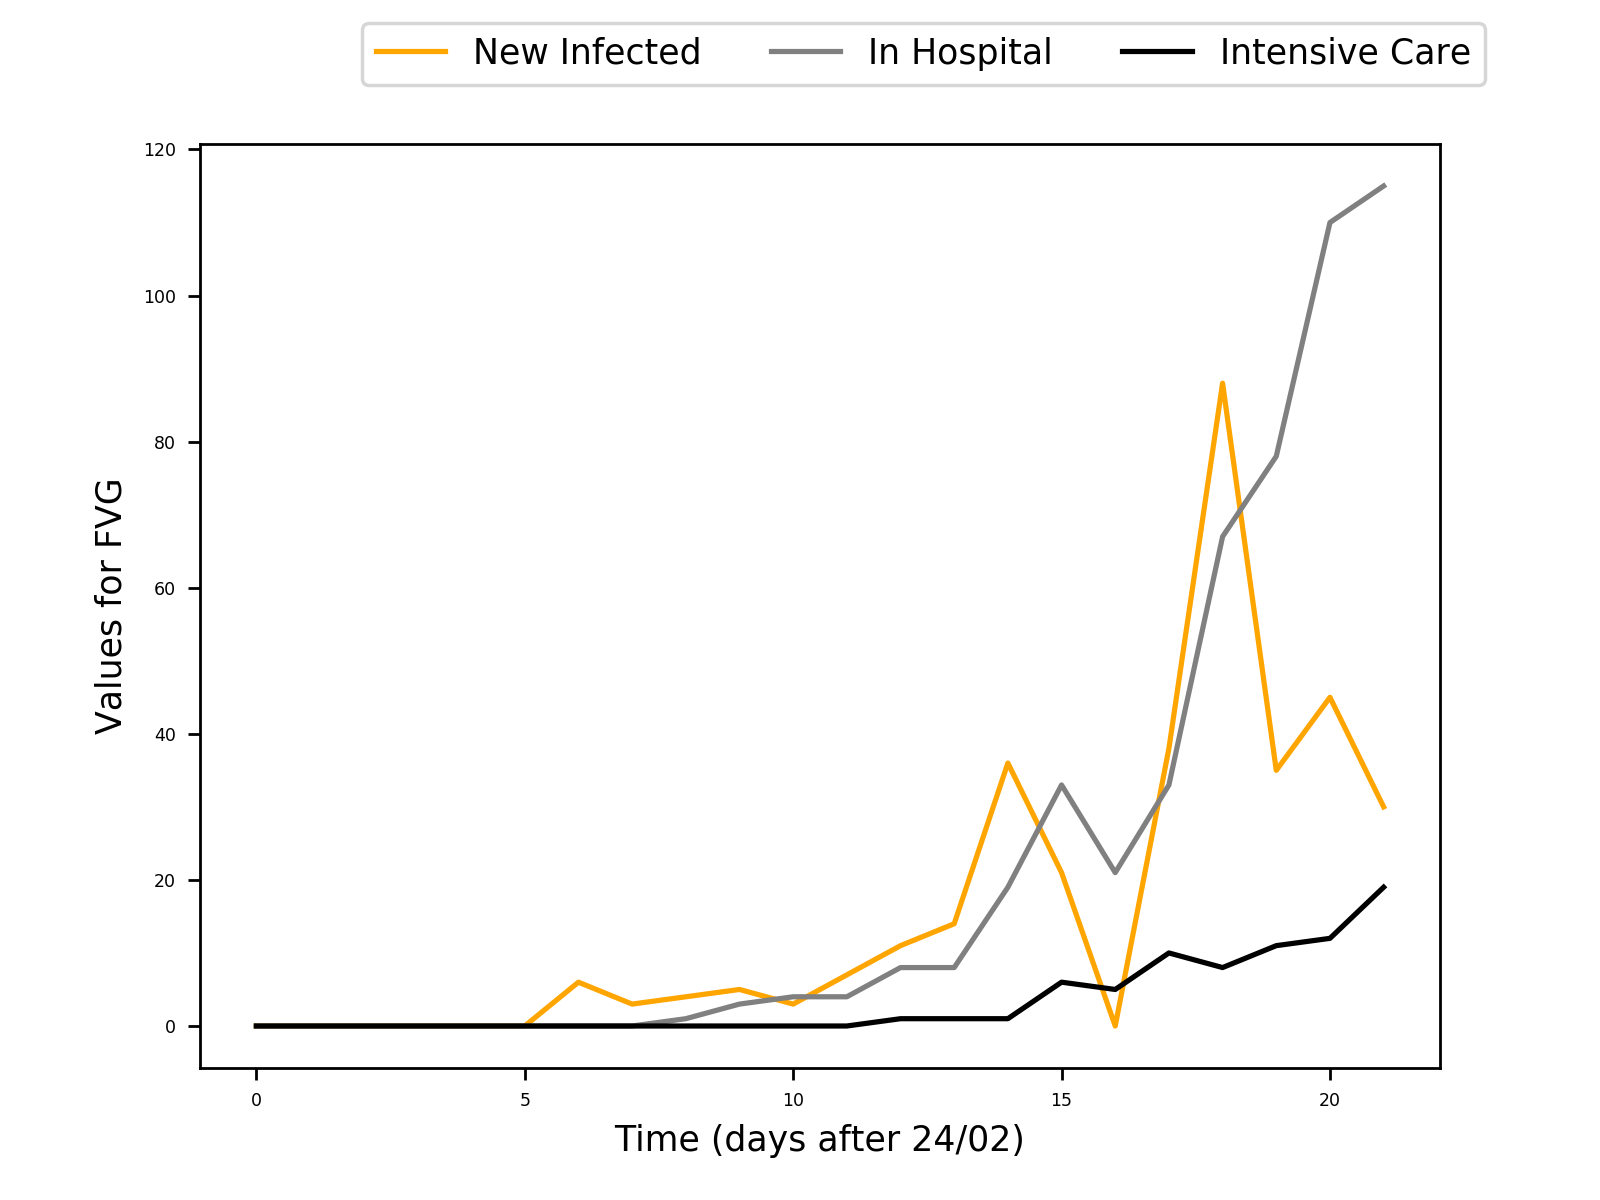
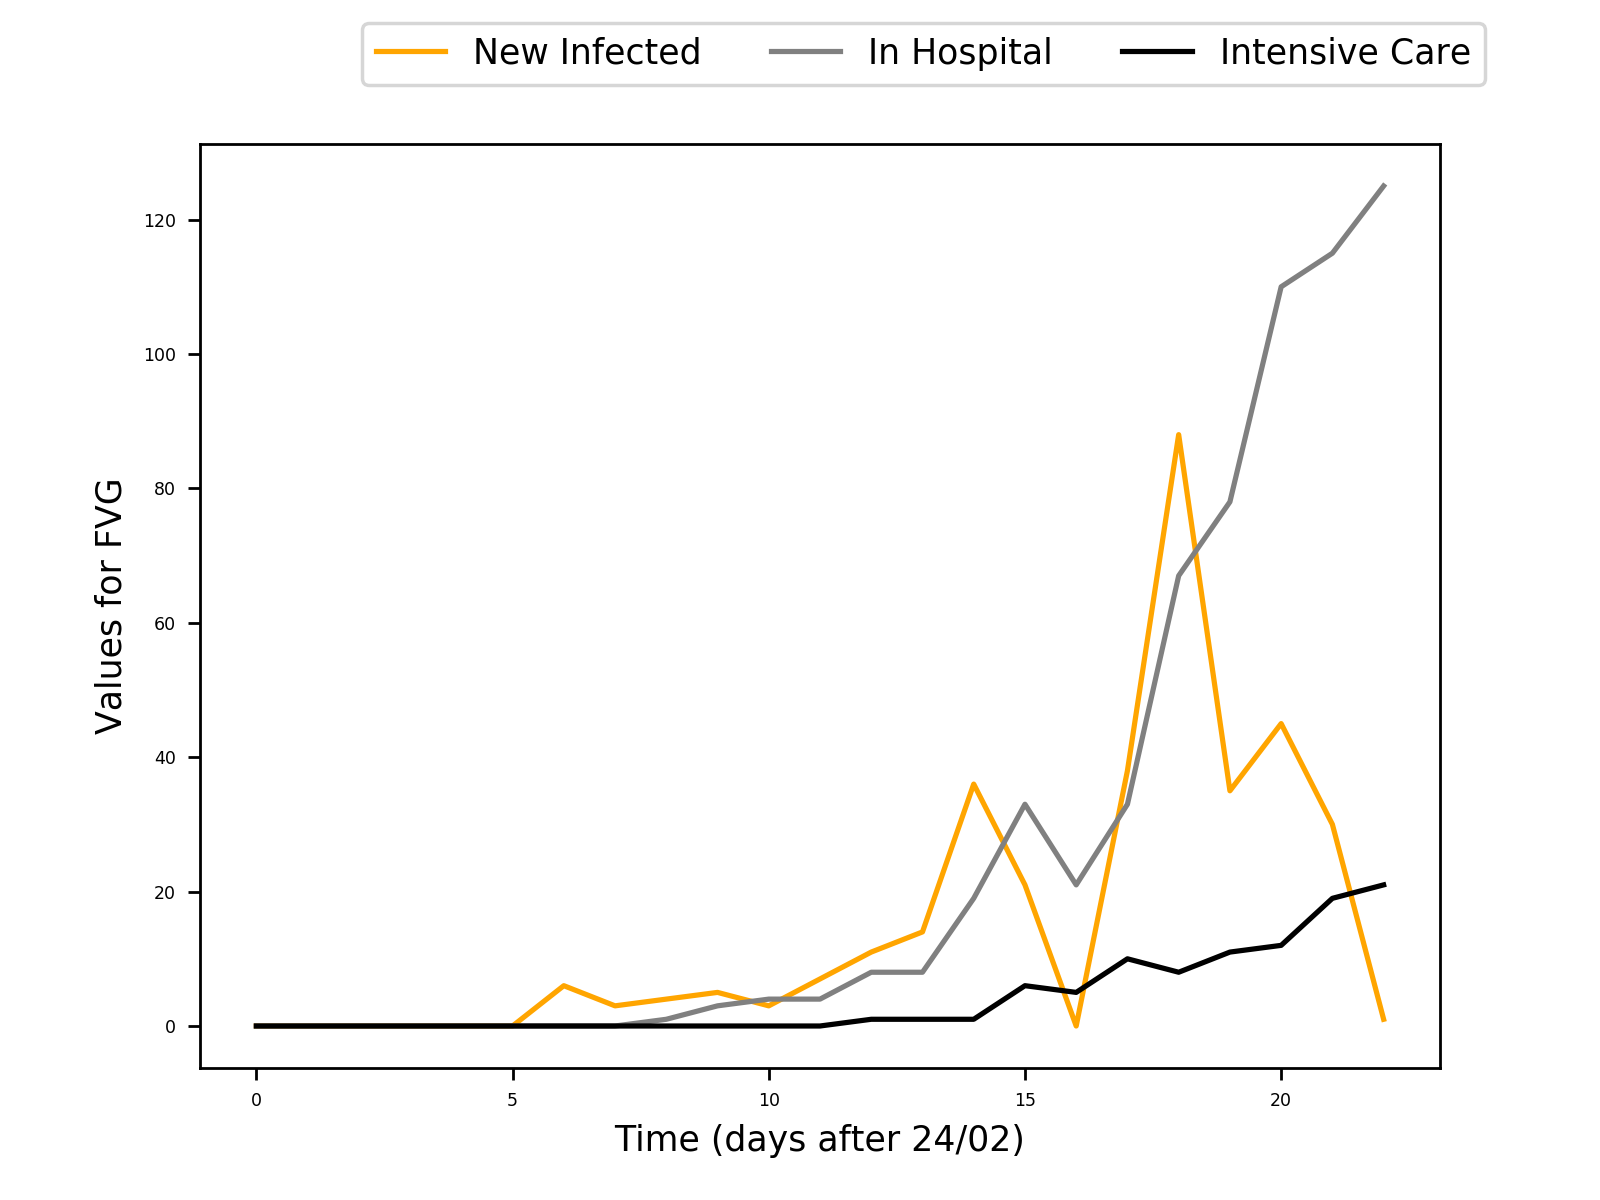
update to 17th march 2020

diff --git a/plotscatter.py b/plotscatter.py
@@ -14,19 +14,19 @@ print('\nINFO')
 dataset.info()
 print('\nDESCRIPTION')
 print(dataset.describe())
-n_rows_head = 18
-print('\nFIRST ' + str(n_rows_head) + ' ENTRIES')
-print(dataset.head(n_rows_head))
-print('\nMINIMUM VALUES')
-print(dataset.min())
-print('\nMAXIMUM VALUES')
-print(dataset.max())
-print('\nMEAN VALUES')
-print(dataset.mean())
+#n_rows_head = 18
+#print('\nFIRST ' + str(n_rows_head) + ' ENTRIES')
+#print(dataset.head(n_rows_head))
+#print('\nMINIMUM VALUES')
+#print(dataset.min())
+#print('\nMAXIMUM VALUES')
+#print(dataset.max())
+#print('\nMEAN VALUES')
+#print(dataset.mean())
 
-print('\n GENERAL DF')
+print('\n DATE, TOT CASES, CURRENTLY INFECTED, NEW INFECTED, HEALED, DECEASED')
 print(dataset[
-['data', 'totale_casi', 'totale_attualmente_positivi', 'nuovi_attualmente_positivi']
+['data', 'totale_casi', 'totale_attualmente_positivi', 'nuovi_attualmente_positivi', 'dimessi_guariti', 'deceduti']
 ].to_string())
 
 ################################################################################################################################
@@ -174,6 +174,16 @@ plt.plot(days, fatality_rate_1, c='darkslateblue', linestyle='-')
 plt.plot(days, fatality_rate_2, c='saddlebrown', linestyle='-')
 plt.legend(('dec/tot.cases','dec/(dec+heal)'),loc='upper right', bbox_to_anchor=(1.05, 1.15), ncol=2)
 plt.savefig('./curves/fatality-rate.png', dpi = 250)
+plt.clf()
+
+# outcome of closed cases (%)
+recovery_rate = dataset['dimessi_guariti']/(dataset['deceduti'] + dataset['dimessi_guariti'])
+plt.xlabel('Time (days after 24/02)')
+plt.ylabel('Recovery vs Fatality Rate (%)')
+plt.plot(days, recovery_rate, c='limegreen', linestyle='-')
+plt.plot(days, fatality_rate_2, c='saddlebrown', linestyle='-')
+plt.legend(('heal/(dec+heal)','dec/(dec+heal)'),loc='upper right', bbox_to_anchor=(1.05, 1.15), ncol=2)
+plt.savefig('./curves/outcome-closed-cases.png', dpi = 250)
 plt.clf()
 
 # calculate growth factor

diff --git a/explore_by_region.py b/explore_by_region.py
@@ -29,9 +29,9 @@ print(dataset.describe())
 #print('\nMEAN VALUES')
 #print(dataset.mean())
 
-print('\n DATE, REGION, TOT CASES, CURRENTLY INFECTED, NEW INFECTED')
-print(dataset.iloc[lambda x: x.index > 419][
-['data', 'denominazione_regione', 'totale_casi', 'totale_attualmente_positivi', 'nuovi_attualmente_positivi']
+print('\n DATE, REGION, TOT CASES, CURRENTLY INFECTED, NEW INFECTED, HEALED, DECEASED')
+print(dataset.iloc[lambda x: x.index > 440][
+['data', 'denominazione_regione', 'totale_casi', 'totale_attualmente_positivi', 'nuovi_attualmente_positivi', 'dimessi_guariti', 'deceduti']
 ].to_string())
 
 ################################################################################################################################
@@ -46,7 +46,7 @@ print(dataset.iloc[lambda x: x.index > 419][
 # monitoring hospitals in fvg
 print('\n MONITORING SITUATION IN FVG HOSPITALS')
 
-last_date = '2020-03-16 17:00:00'
+last_date = '2020-03-17 17:00:00'
 last_tot_cases = dataset.loc[dataset['data']==last_date][['denominazione_regione','totale_casi','totale_attualmente_positivi', 'totale_ospedalizzati', 'terapia_intensiva']]
 
 print('\nTotale casi in fvg')
